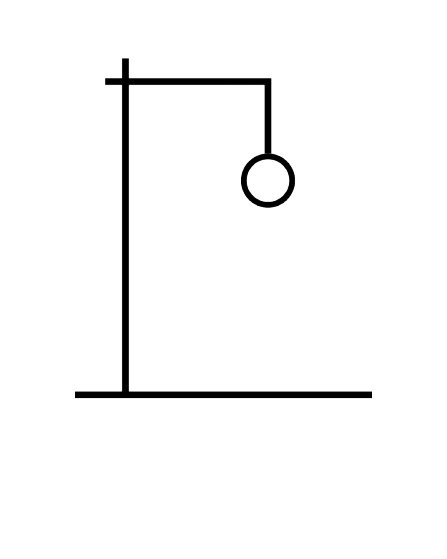
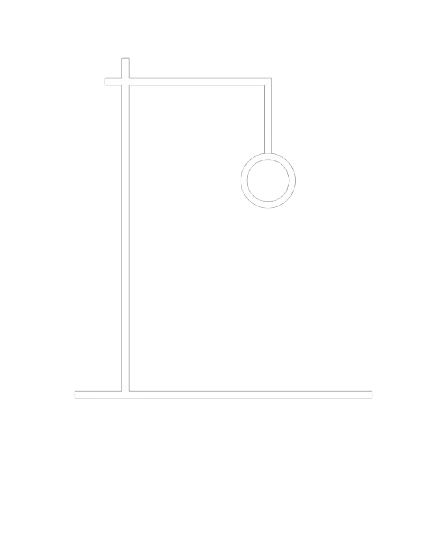
Updated background and hangman images

Changed region(s): [[0.1745, 0.0912, 0.8434, 0.7299]]

diff --git a/HangmanUI.java b/HangmanUI.java
@@ -8,54 +8,69 @@ public class HangmanUI {
     private JLabel wrongLetters;
     private JLabel guessLabel;
 
-    // constructor to set up the UI
     public HangmanUI() {
         JFrame frame = new JFrame("HANGMAN GAME");
         frame.setExtendedState(JFrame.MAXIMIZED_BOTH);
         frame.setDefaultCloseOperation(JFrame.DISPOSE_ON_CLOSE);
-        frame.setLayout(new BorderLayout(20, 20));
-        frame.getContentPane().setBackground(new Color(255, 228, 181)); // light background color
+
+        // ================= BACKGROUND PANEL =================
+        BackgroundPanel background = new BackgroundPanel();
+        background.setLayout(new BorderLayout(20, 20));
+        frame.setContentPane(background);
+
         String selectedDifficulty = DifficultySelector.getDifficulty();
-
         backend = new HangmanBackend(selectedDifficulty);
-        // TITLE
-        JLabel title = new JLabel("HANGMAN GAME", JLabel.CENTER);
-        title.setFont(new Font("Verdana", Font.BOLD, 50));
-        title.setBorder(BorderFactory.createEmptyBorder(20, 0, 20, 0));
-        frame.add(title, BorderLayout.NORTH);
 
-        // MAIN PANEL
+        // ================= TITLE =================
+        JLabel title = new JLabel("HANGMAN", JLabel.CENTER);
+        title.setFont(new Font("Georgia", Font.BOLD, 50));
+        title.setBorder(BorderFactory.createEmptyBorder(20, 0, 20, 0));
+        title.setForeground(Color.WHITE); // important for visibility
+
+        background.add(title, BorderLayout.NORTH);
+
+        // ================= MAIN PANEL =================
         JPanel mainPanel = new JPanel(new GridLayout(1, 2, 50, 50));
+        mainPanel.setOpaque(false);
         mainPanel.setBorder(BorderFactory.createEmptyBorder(30, 80, 30, 80));
-        frame.add(mainPanel, BorderLayout.CENTER);
-        // LEFT PANEL (Hangman Image)
+
+        background.add(mainPanel, BorderLayout.CENTER);
+
+        // ================= LEFT PANEL =================
         JLabel hangmanImageLabel = new JLabel();
         hangmanImageLabel.setHorizontalAlignment(JLabel.CENTER);
         hangmanImageLabel.setVerticalAlignment(JLabel.CENTER);
-        mainPanel.setOpaque(false);
-        // set initial image
-        hangmanImageLabel.setIcon(new ImageIcon("images/hangman-wrong-images/guess0.png")); // your folder and first
-        mainPanel.add(hangmanImageLabel); // add to left column
 
-        // RIGHT PANEL
+        mainPanel.setOpaque(false);
+
+        hangmanImageLabel.setIcon(
+                new ImageIcon("images/hangman-wrong-images/guess0.png"));
+
+        mainPanel.add(hangmanImageLabel);
+
+        // ================= RIGHT PANEL =================
         JPanel rightPanel = new JPanel(new BorderLayout(20, 20));
         rightPanel.setOpaque(false);
 
-        // 🔝 TOP INFO PANEL
+        // TOP INFO
         JPanel infoPanel = new JPanel(new GridLayout(4, 1, 10, 10));
         infoPanel.setOpaque(false);
 
         guessLabel = new JLabel("Guess the word:", JLabel.CENTER);
         guessLabel.setFont(new Font("Helvetica", Font.BOLD, 40));
+        guessLabel.setForeground(Color.WHITE);
 
         wordLabel = new JLabel(getUnderscores(backend.getWordToGuess()), JLabel.CENTER);
         wordLabel.setFont(new Font("Arial", Font.BOLD, 40));
+        wordLabel.setForeground(Color.WHITE);
 
         attempts = new JLabel("Attempts Left: " + backend.attemptsLeft(), JLabel.CENTER);
         attempts.setFont(new Font("Arial", Font.BOLD, 25));
+        attempts.setForeground(Color.WHITE);
 
         wrongLetters = new JLabel("Wrong Letters: ", JLabel.CENTER);
         wrongLetters.setFont(new Font("Arial", Font.PLAIN, 20));
+        wrongLetters.setForeground(Color.WHITE);
 
         infoPanel.add(guessLabel);
         infoPanel.add(wordLabel);
@@ -64,81 +79,105 @@ public class HangmanUI {
 
         rightPanel.add(infoPanel, BorderLayout.NORTH);
 
-        // LETTERS PANEL
+        // ================= LETTER PANEL =================
         JPanel lettersPanel = new JPanel(new GridLayout(5, 6, 10, 10));
+        lettersPanel.setOpaque(false);
         lettersPanel.setBorder(BorderFactory.createEmptyBorder(20, 20, 20, 20));
 
         for (char c = 'A'; c <= 'Z'; c++) {
             final char letter = c;
+
             JButton letterBtn = new JButton(String.valueOf(letter));
             letterBtn.setFont(new Font("Arial", Font.BOLD, 22));
             letterBtn.setFocusPainted(false);
             letterBtn.setBackground(Color.WHITE);
 
-            // Event listener for letter buttons
             letterBtn.addActionListener(e -> {
-                letterBtn.setEnabled(false);// disable button after click
-                char guessedChar = letter;
-                boolean correct = backend.guessLetter(guessedChar); // check guess
-                wordLabel.setText(backend.getDisplayWord().replaceAll("", " ").trim()); // update display word
-                attempts.setText("Attempts Left: " + backend.attemptsLeft()); // update attempts
+                letterBtn.setEnabled(false);
+
+                boolean correct = backend.guessLetter(letter);
+
+                wordLabel.setText(backend.getDisplayWord().replaceAll("", " ").trim());
+                attempts.setText("Attempts Left: " + backend.attemptsLeft());
+
                 if (!correct) {
-                    wrongLetters.setText(wrongLetters.getText() + " " + guessedChar);
-                    letterBtn.setBackground(Color.RED); // update wrong letters
-                    // update hangman image based on wrong attempts
+                    wrongLetters.setText(wrongLetters.getText() + " " + letter);
+                    letterBtn.setBackground(Color.RED);
+
                     int wrongAttempts = backend.attemptsLeft();
-                    hangmanImageLabel
-                            .setIcon(new ImageIcon("images/hangman-wrong-images/guess" + (wrongAttempts + 1) + ".png"));
-                } else if (correct)
-                    letterBtn.setBackground(Color.GREEN); // update correct letters
+                    hangmanImageLabel.setIcon(new ImageIcon(
+                            "images/hangman-wrong-images/guess" + (wrongAttempts + 1) + ".png"));
+
+                } else {
+                    letterBtn.setBackground(Color.GREEN);
+                }
+
                 if (backend.isGameOver()) {
                     String message = backend.isWin()
                             ? "Congratulations! You guessed the word: " + backend.getWordToGuess()
                             : "Game Over! The word was: " + backend.getWordToGuess();
-                    JOptionPane.showMessageDialog(null, message);
 
+                    JOptionPane.showMessageDialog(null, message);
                 }
             });
 
             lettersPanel.add(letterBtn);
         }
-        rightPanel.add(lettersPanel, BorderLayout.CENTER);
-        lettersPanel.setOpaque(false);
 
-        // BOTTOM PANEL
+        rightPanel.add(lettersPanel, BorderLayout.CENTER);
+
+        // ================= RESET BUTTON =================
         JPanel bottomPanel = new JPanel();
+        bottomPanel.setOpaque(false);
 
         JButton resetBtn = new JButton("RESET GAME");
         styleButton(resetBtn);
 
-        // action listener for the reset button
         resetBtn.addActionListener(e -> {
-            // resetting the backend
             backend = new HangmanBackend(selectedDifficulty);
-            // resetting the UI
+
             wordLabel.setText(backend.getDisplayWord().replaceAll("", " ").trim());
             attempts.setText("Attempts Left: " + backend.attemptsLeft());
             wrongLetters.setText("Wrong: ");
-            hangmanImageLabel.setIcon(new ImageIcon("images/hangman-wrong-images/guess0.png"));
 
-            // resetting letter buttons
+            hangmanImageLabel.setIcon(
+                    new ImageIcon("images/hangman-wrong-images/guess0.png"));
+
             Component[] components = lettersPanel.getComponents();
-            for (Component component : components) {
-                if (component instanceof JButton) {
-                    component.setEnabled(true);
-                    component.setBackground(Color.WHITE);
+            for (Component comp : components) {
+                if (comp instanceof JButton) {
+                    comp.setEnabled(true);
+                    comp.setBackground(Color.WHITE);
                 }
             }
         });
-        bottomPanel.setOpaque(false);
 
         bottomPanel.add(resetBtn);
         rightPanel.add(bottomPanel, BorderLayout.SOUTH);
+
         mainPanel.add(rightPanel);
+
         frame.setVisible(true);
     }
 
-    // BUTTON STYLE
+    // ================= BACKGROUND CLASS =================
+    static class BackgroundPanel extends JPanel {
+
+        Image img = new ImageIcon("images/hangmanbg.jpeg").getImage();
+
+        @Override
+        protected void paintComponent(Graphics g) {
+            super.paintComponent(g);
+
+            Graphics2D g2 = (Graphics2D) g;
+            g2.setRenderingHint(RenderingHints.KEY_INTERPOLATION,
+                    RenderingHints.VALUE_INTERPOLATION_BILINEAR);
+
+            g2.drawImage(img, 0, 0, getWidth(), getHeight(), this);
+        }
+    }
+
+    // ================= BUTTON STYLE =================
     static void styleButton(JButton b) {
         b.setFont(new Font("Arial", Font.BOLD, 20));
         b.setBackground(new Color(30, 144, 255));
@@ -150,7 +189,7 @@ public class HangmanUI {
                 BorderFactory.createEmptyBorder(10, 20, 10, 20)));
     }
 
-    // getting underscores
+    // ================= HELPER =================
     private static String getUnderscores(String word) {
         return "_ ".repeat(word.length()).trim();
     }
